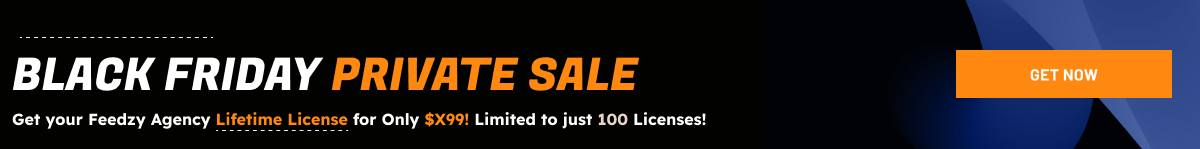
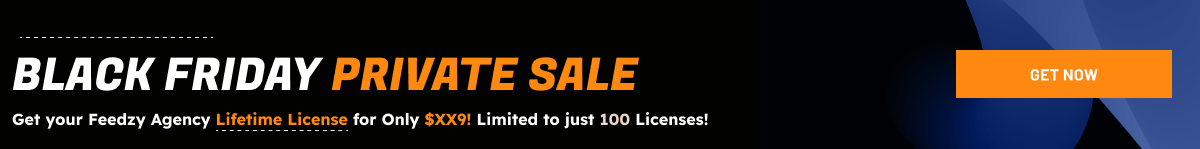
feat: add black friday 2024 campaign

Changed region(s): [[0.37, 0.7517, 0.6167, 0.8591]]

diff --git a/includes/feedzy-rss-feeds-limited-offers.php b/includes/feedzy-rss-feeds-limited-offers.php
@@ -42,8 +42,8 @@ class Feedzy_Rss_Feeds_Limited_Offers {
 	 */
 	public $timelines = array(
 		'bf' => array(
-			'start' => '2023-11-20 00:00:00',
-			'end'   => '2023-11-27 23:59:00',
+			'start' => '2024-11-25 00:00:00',
+			'end'   => '2024-12-3 23:59:00',
 		),
 	);
 
@@ -93,8 +93,8 @@ class Feedzy_Rss_Feeds_Limited_Offers {
 		$this->offer_metadata = array(
 			'bannerUrl'     => FEEDZY_ABSURL . 'img/black-friday-banner.png',
 			'bannerAlt'     => 'Feedzy Black Friday Sale',
-			'linkDashboard' => tsdk_utmify( 'https://themeisle.com/plugins/feedzy-rss-feeds/blackfriday/', 'blackfridayltd23', 'dashboard' ),
-			'linkGlobal'    => tsdk_utmify( 'https://themeisle.com/plugins/feedzy-rss-feeds/blackfriday/', 'blackfridayltd23', 'globalnotice' ),
+			'linkDashboard' => tsdk_utmify( 'https://themeisle.com/plugins/feedzy-rss-feeds/blackfriday/', 'bfcm24', 'dashboard' ),
+			'linkGlobal'    => '',
 			'urgencyText'   => 'Hurry Up! Only ' . $this->get_remaining_time_for_deal( $this->get_active_deal() ) . ' left',
 		);
 	}

diff --git a/includes/feedzy-rss-feeds.php b/includes/feedzy-rss-feeds.php
@@ -298,9 +298,6 @@ class Feedzy_Rss_Feeds {
 		if ( ! feedzy_is_pro() ) {
 			$offer = new Feedzy_Rss_Feeds_Limited_Offers();
 			$offer->load_banner();
-			if ( $offer->is_active() && $offer->can_show_dashboard_banner() ) {
-				$offer->load_dashboard_hooks();
-			}
 		}
 
 	}
